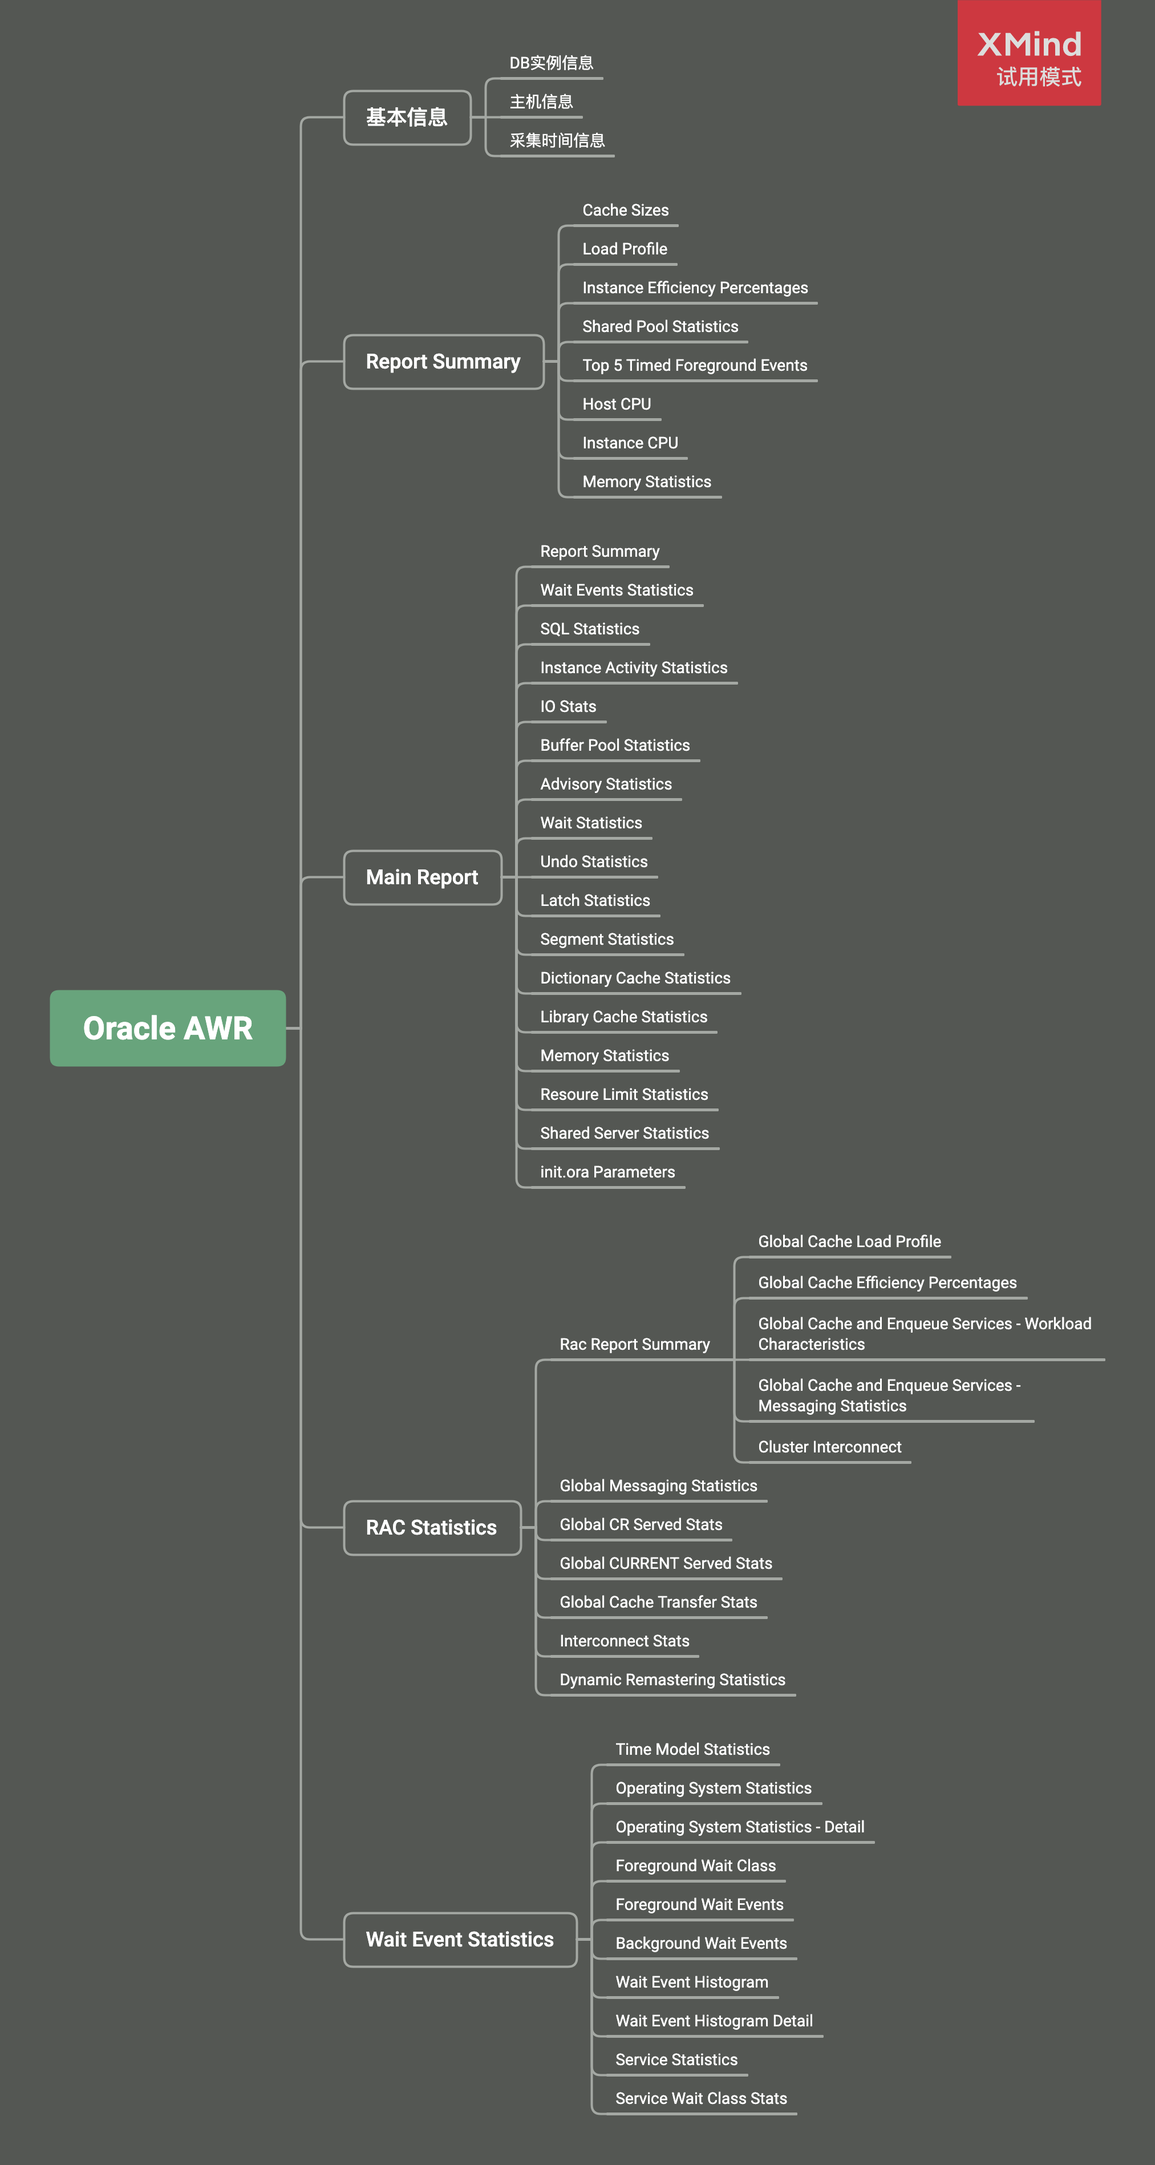
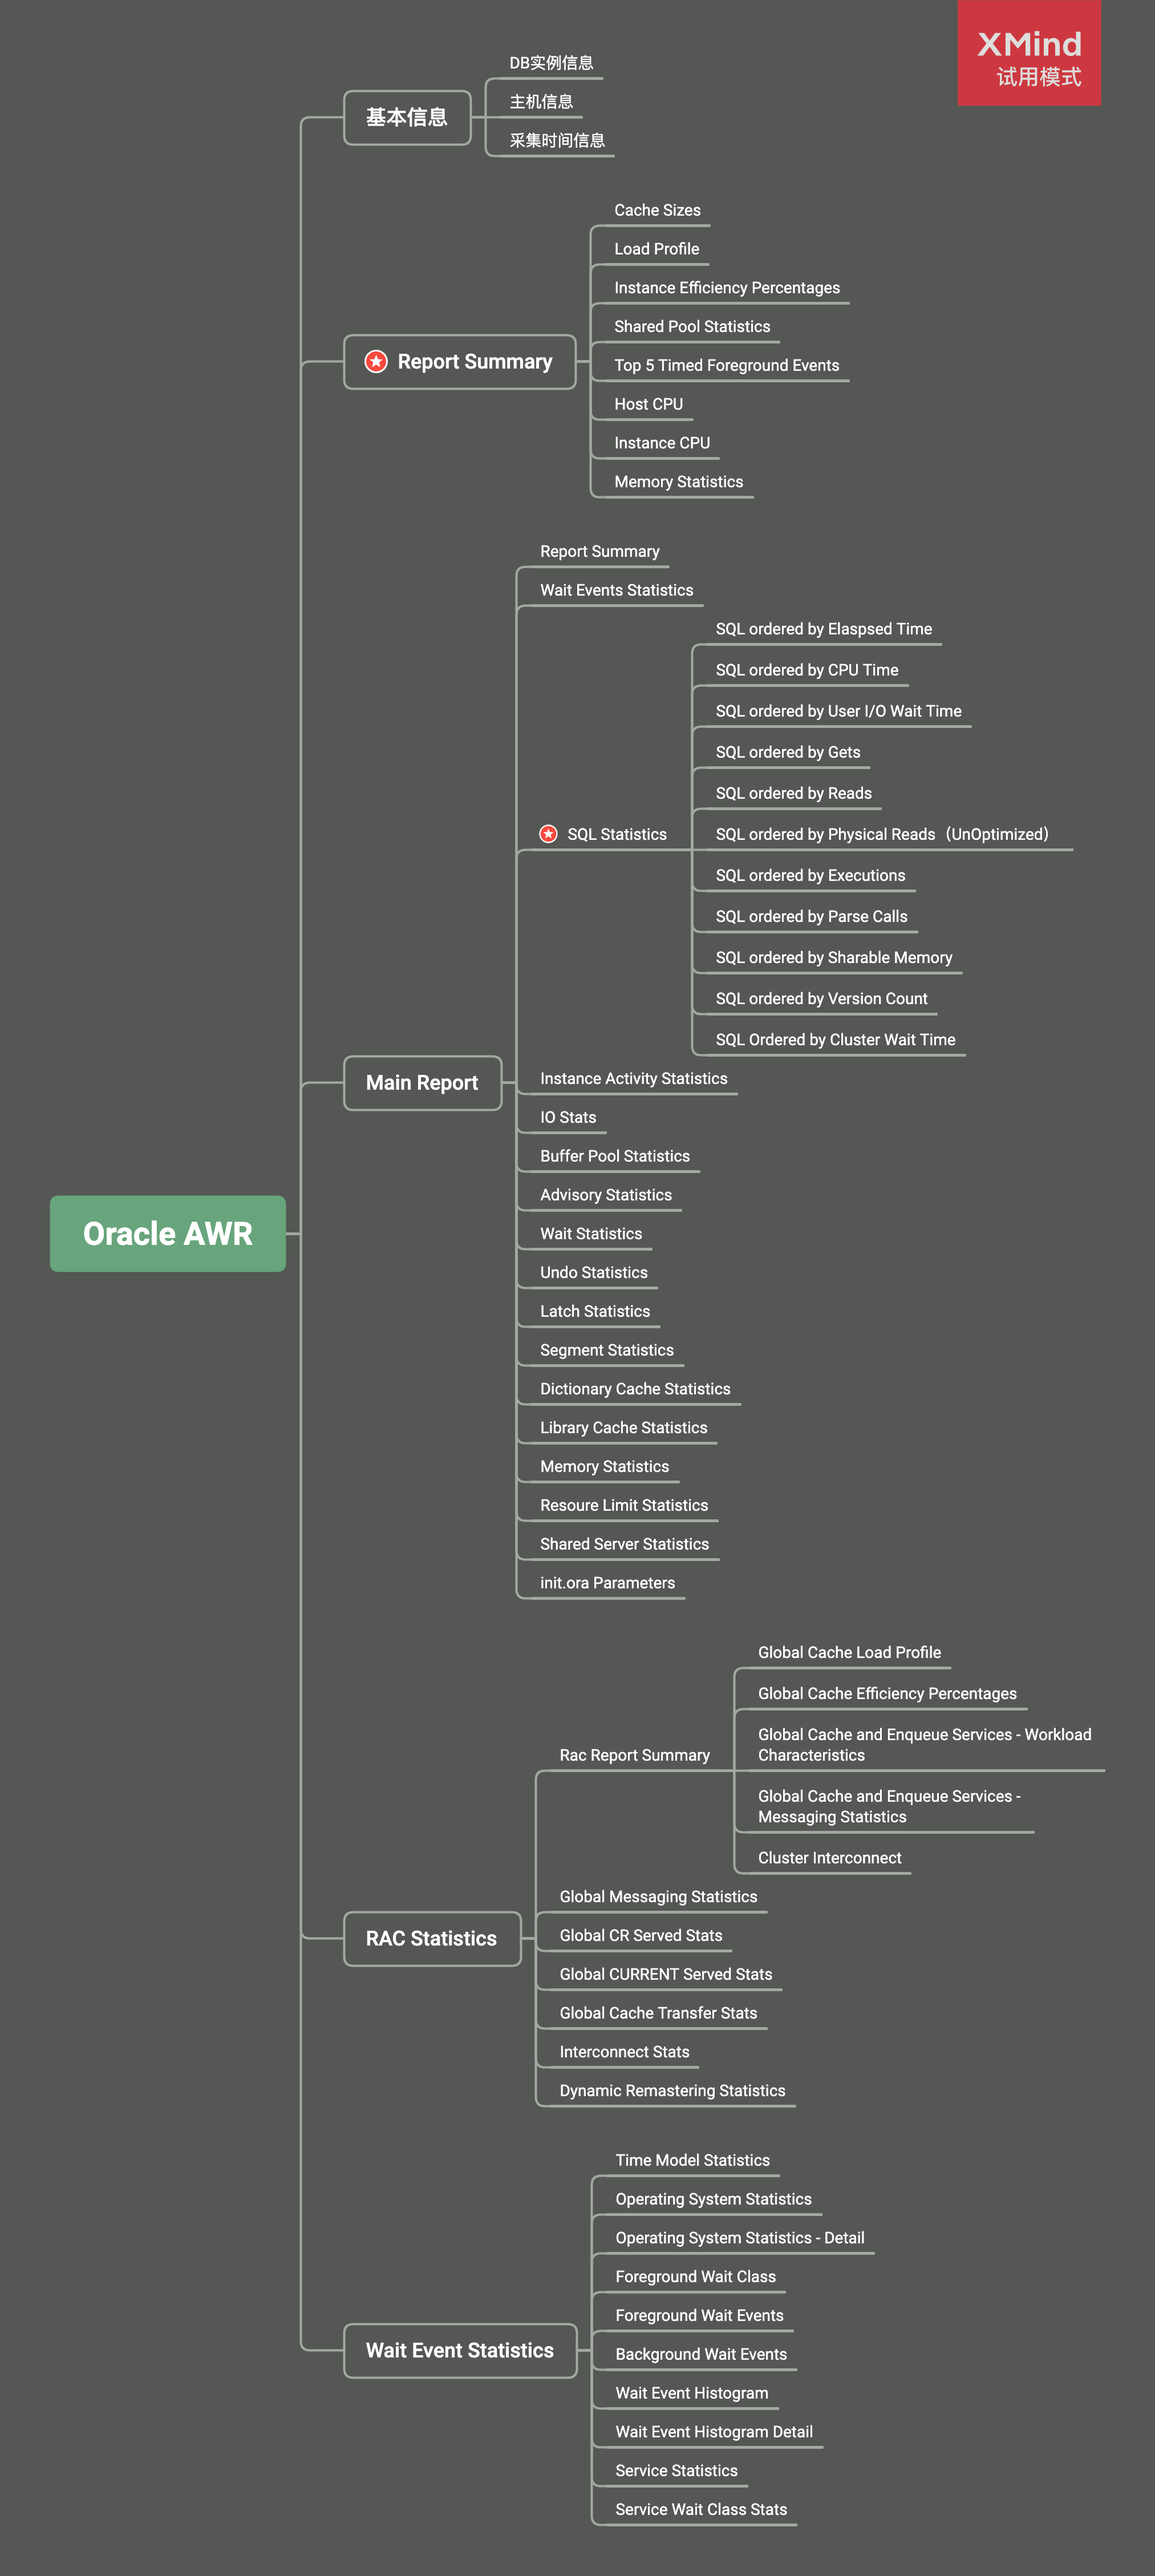
modify post

diff --git a/_drafts/20201001-quick-view-of-oracle-awr-report.md b/_drafts/20201001-quick-view-of-oracle-awr-report.md
@@ -22,7 +22,7 @@ AWR报告基本分为四部分：
 * 基本信息部分，包括了DB实例、主机的信息以及报告采集时间段的信息。
 * Main Report部分，第一部分Report Summary被单独放在了基本信息后面，其他的信息则放在整个报告较后的位置，个人觉得最重要的部分是SQL Statistcs。
 * RAC statistics部分，包括RAC相关的统计信息。
-* Wait Event Statistics部分，。
+* Wait Event Statistics部分。
 
 ![oracle-awr](20201001-quick-view-of-oracle-awr-report/oracle-awr.png)
 
@@ -41,29 +41,56 @@ Report Summary 分为8个部分，最主要的是 Load Profile。
 Load Profile 主要用来显示当前系统的一些指示性能的总体参数，部分介绍如下：
 
 * Redo Size ：用来显示平均每秒的日志大小和平均每个事务的日志大小，有时候可以结合 Transactions 每秒事务数，**分析当前事务的繁忙程度**。
-* 
+* Logical Read：逻辑读耗CPU，主频和CPU核数都很重要，逻辑读高则DB CPU往往高，也往往可以看到 `latch: cache buffer chains` 等待。
+* Physical Read：物理读消耗IO读，体现在IOPS和吞吐量等不同纬度上。但减少物理读可能意味着消耗更多CPU。
+* Parses：解析次数，包括软解析 + 硬解析，软解析优化得不好几乎等于每秒SQL执行次数， 即执行解析比1:1。理想状态是解析一次到处运行。
+* Hard Parses：硬解析次数，最好少于没秒20次。
+
+> 注意 Load Profile 中的指标提供了 Per second 和 Per transaction 两个维度。Per second 主要是把快照抓到的值除以两个快照之间的秒数。这是我们用来判断性能的主要维度。Per transaction 是基于事务的维度，主要是把快照抓到的值除以两个快照之间的事务数。
 
 ![image-20201114211235356](20201001-quick-view-of-oracle-awr-report/image-20201114211235356.png)
 
-Instance Efficiency Percentages 是一些命中率指标。Buffer Hit、Library Hit 等表示SGA ( System global area )的命中率。Soft Parse 指标表示共享池的软解析率，如果小于90%，就说明存在未绑定变量的情况。
+Instance Efficiency Percentages 是一些命中率指标。Buffer Hit、Library Hit 等表示SGA ( System global area )的命中率。Soft Parse 指标表示共享池的软解析率，如果小于90%，就说明存在未绑定变量的情况。这些指标应当尽可能接近100%，如果过低一定是发生了性能问题。
+
+* **Buffer Nowait ** 表示在内存获得数据的未等待比例。在缓冲区中获取Buffer的未等待比率。**Buffer Nowait的这个值一般需要大于99%**。否则可能存在争用，可以在后面的等待事件中进一步确认。
+* **Buffer Hit** 表示进程从内存中找到数据块的比率，监视这个值是否发生重大变化比这个值本身更重要。对于一般的OLTP系统，如果此值低于80%，应该给数据库分配更多的内存。数据块在数据缓冲区中的命中率，通常应在95%以上。
+* **Redo NoWait** 表示在Log 缓冲区获得Buffer的未等待比例。如果太低可考虑增加Log Buffer。当redo buffer达到1M时就需要写到redo log文件，所以一般当redo buffer设置超过1M，不太可能存在等待buffer空间分配的情况。当前，一般设置为2M的redo buffer，对于内存总量来说，应该不是一个太大的值。
+* **Library Hit** 表示Oracle从Library Cache中检索到一个解析过的SQL或PL/SQL语句的比率，当应用程序调用SQL或存储过程时，Oracle检查Library Cache确定是否存在解析过的版本，如果存在Oracle立即执行语句；如果不存在Oracle解析此语句，并在Library Cache中为它分配共享SQL区。低的Library Hit Ratio会导致过多的解析，增加CPU消耗，降低性能。如果Library Hit Ratio低于90%，可能需要调大Shared pool区。
+* **Latch Hit：**Latch是一种保护内存结构的锁，可以认为是Server进程获取访问内存数据结构的许可。要确保Latch Hit>99%，否则意味着Shared Pool latch争用，可能由于未共享的SQL，或者Library Cache太小，可使用绑定变更或调大Shared Pool解决。要确保>99%，否则存在严重的性能问题。当该值出现问题的时候，我们可以借助后面的等待时间和latch分析来查找解决问题。
+* **Parse CPU to Parse Elapsd：**解析实际运行时间/(解析实际运行时间+解析中等待资源时间)，越高越好。如果该比率为100%，意味着CPU等待时间为0，没有任何等待。
+* **Non-Parse CPU ：**SQL实际运行时间/(SQL实际运行时间+SQL解析时间)，太低表示解析消耗时间过多。如果这个值比较小，表示解析消耗的CPU时间过多。
+* **Execute to Parse：**是语句执行与分析的比例，如果要SQL重用率高，则这个比例会很高。该值越高表示一次解析后被重复执行的次数越多。
+* **In-memory Sort：**在内存中排序的比率，如果过低说明有大量的排序在临时表空间中进行。考虑调大PGA(10g)。如果低于95%，可以通过适当调大初始化参数PGA_AGGREGATE_TARGET或者SORT_AREA_SIZE来解决，注意这两个参数设置作用的范围时不同的，SORT_AREA_SIZE是针对每个session设置的，PGA_AGGREGATE_TARGET则时针对所有的sesion的。
+* **Soft Parse：**软解析的百分比(Softs/Softs+Hards)，近似当作sql在共享区的命中率，太低则需要调整应用使用绑定变量。sql在共享区的命中率，小于<95%,需要考虑绑定，如果低于80%，那么就可以认为sql基本没有被重用。
 
 ## Main Report
 
-* 操作系统系统负载情况
-* 数据库负载情况
-* 慢SQL的情况
-* Top 5 Timed Foregroud Events
-* SQL Statistics从几个维度列举了系统执行比较慢的SQL，可以点击，然后拿SQL去调优，调优SQL可以用执行计划看看
-* Top 10 Foreground Events by Total Wait Time，等待事件是衡量数据库优化情况的重要指标，通过观察Event和%DB time两列就可以直观看出当前数据库的主要等待事件
-  如图可以看出系统面试的主要是CPU被占用太多了和锁等待
+* Report Summary 在上面一节已经说过，不再赘述。
+* SQL Statistics 从 `11` 个维度对SQL进行排序并给出了Top SQL的详细内容，可以点击查看具体的SQL内容，进一步分析调优方案。
+  * SQL ordered by Elapsed Time。记录了执行总和时间的 TOP SQL(请注意是监控范围内该SQL的执行时间总和，而不是单次SQL执行时间 Elapsed Time = CPU Time + Wait Time)。
+  * SQL ordered by CPU Time。记录了执行占CPU时间总和时间最长的TOP SQL(请注意是监控范围内该SQL的执行占CPU时间总和，而不是单次SQL执行时间)。
+  * SQL ordered by Gets。记录了执行占总 buffer gets (逻辑IO)的TOP SQL(请注意是监控范围内该SQL的执行占Gets总和，而不是单次SQL执行所占的Gets)。
+  * SQL ordered by Reads。记录了执行占总磁盘物理读(物理IO)的TOP SQL。
+  * SQL ordered by Executions。记录了按照SQL的执行次数排序的TOP SQL。该排序可以看出监控范围内的SQL执行次数。
+  * SQL ordered by Parse Calls。记录了SQL的软解析次数的TOP SQL。
+  * SQL ordered by Sharable Memory。记录了SQL占用library cache的大小的TOP SQL。Sharable Mem (b)：占用library cache的大小，单位是byte。
+  * SQL ordered by Version Count。记录了SQL的打开子游标的TOP SQL。
+  * SQL ordered by Cluster Wait Time。记录了集群的等待时间的TOP SQL。
+* Top 10 Foreground Events by Total Wait Time，等待事件是衡量数据库优化情况的重要指标，通过观察Event和%DB time两列就可以直观看出当前数据库的主要等待事件。
 
-## AWR生成方式
+## RAC statistics
 
+这一部分涉及RAC运行的相关统计信息，对于初学者来说不太常用，本文暂不赘述。
 
+## Wait Event Statistics
 
-## 总结
+其中 Time Model Statistics 几个有用的指标解释如下：
 
-
+* parse time elapsed 与 hard parse elapsed time 需要结合起来看解析是否是主要矛盾，若是则重点是软解析还是硬解析。
+* sequence load elapsed time 序列争用
+* PL/SQL compilation elapsed time PL/SQL对象编译的耗时
+* connection management call elapsed time 数据库连接建立和断开的耗时
+* failed parse elapsed time 解析失败的耗时
 
 ## 参考资料
 
@@ -71,4 +98,5 @@ Instance Efficiency Percentages 是一些命中率指标。Buffer Hit、Library 
 2. [等待事件：db file scattered read(离散读）](https://blog.csdn.net/haojiubujian920416/article/details/81506982)
 3. [【深度长文】循序渐进解读Oracle AWR性能分析报告](https://mp.weixin.qq.com/s/48pYtwLO1YpFnUtpMojbfQ)
 4. [Oracle AWR报告生成和性能分析](https://www.cnblogs.com/mzq123/p/10741208.html)
+5. [Oracle AWR报告指标全解析](http://www.askmaclean.com/archives/performance-tuning-oracle-awr.html)
 
